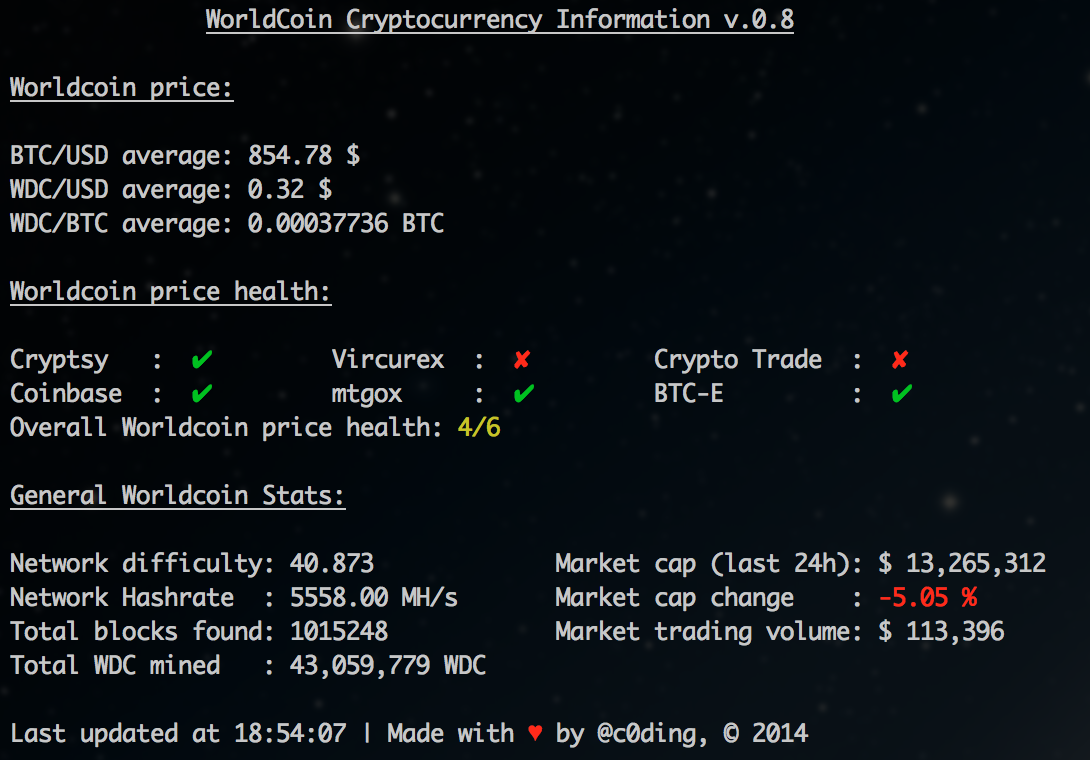
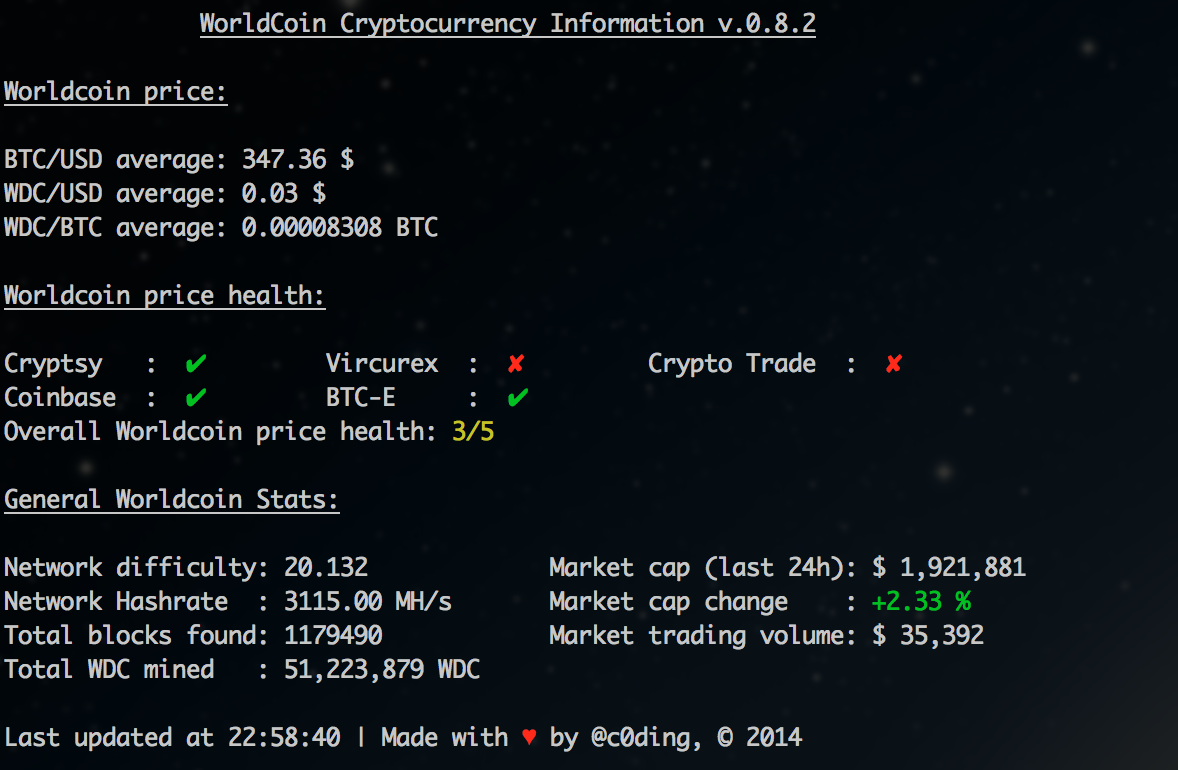
remove MtGox from statistics

diff --git a/wdcinfo.py b/wdcinfo.py
@@ -14,25 +14,27 @@ def get_info():
 	""" Fetches price and network difficulty from wdcticker.com """
 	data = requests.get('http://wdcticker.com/api/ticker')
 	d = json.loads(data.text)
-	values = [d[u'cryptsy_set'],d[u'vircurex_set'],d[u'crypto_trade_set'],d[u'coinbase_btc_set'],d[u'mtgox_btc_set'],d[u'btc_e_btc_set']]
-	keys= [u'cryptsy_set',u'vircurex_set',u'crypto_trade_set',u'coinbase_btc_set',u'mtgox_btc_set',u'btc_e_btc_set']
+	values = [d[u'cryptsy_set'],d[u'vircurex_set'],d[u'crypto_trade_set'],d[u'coinbase_btc_set'],d[u'btc_e_btc_set']]
+	keys= [u'cryptsy_set',u'vircurex_set',u'crypto_trade_set',u'coinbase_btc_set',u'btc_e_btc_set']
 	for key,value in zip(keys,values):
 		if value == True:
 			d[key] = "\033[32m✔\033[39m"
 		else:
 			d[key] = "\033[31m✘\033[39m"
 
-	if d[u'health_rating']>= 6:
-		d[u'health_rating'] = "\033[32m" + str(d[u'health_rating']) + str("/6") + "\033[39m"
+	d[u'health_rating'] = d[u'health_rating'] - 1
+
+	#if d[u'health_rating']>= 6:
+		#d[u'health_rating'] = "\033[32m" + str(d[u'health_rating']) + str("/6") + "\033[39m"
 	
-	elif d[u'health_rating'] >= 5:
-		d[u'health_rating'] = "\033[32m" + str(d[u'health_rating']) + "/6" + "\033[39m"
+	if d[u'health_rating'] >= 5:
+		d[u'health_rating'] = "\033[32m" + str(d[u'health_rating']) + "/5" + "\033[39m"
 	
 	elif 4 >= d[u'health_rating'] >= 3:
-		d[u'health_rating'] = "\033[33m" + str(d[u'health_rating']) + "/6" + "\033[39m"
+		d[u'health_rating'] = "\033[33m" + str(d[u'health_rating']) + "/5" + "\033[39m"
 	
 	elif d[u'health_rating'] <= 2:
-		d[u'health_rating'] = "\033[31m" + str(d[u'health_rating']) + "/6" + "\033[39m"
+		d[u'health_rating'] = "\033[31m" + str(d[u'health_rating']) + "/5" + "\033[39m"
 	
 	d[u'network_diff'] = '%.3f' % d[u'network_diff']
 	
@@ -75,7 +77,7 @@ def output(d, hashrate, market_cap):
 	print "WDC/BTC average: " + d[u'wdc_btc_avg'] + " BTC\n"
 	print "\033[4mWorldcoin price health:\033[0m\n"
 	print "Cryptsy   :  " + d[u'cryptsy_set'] + "         Vircurex  :  " + d[u'vircurex_set'] + "         Crypto Trade  :  " + d[u'crypto_trade_set']
-	print "Coinbase  :  " + d[u'coinbase_btc_set'] + "         mtgox     :  " + d[u'coinbase_btc_set'] + "         BTC-E         :  " + d[u'btc_e_btc_set']
+	print "Coinbase  :  " + d[u'coinbase_btc_set'] +  "         BTC-E     :  " + d[u'btc_e_btc_set']
 	print "Overall Worldcoin price health: " + d[u'health_rating']
 	print "\n\033[4mGeneral Worldcoin Stats:\033[0m\n "
 	print "Network difficulty: " + str(d[u'network_diff']) + "             Market cap (last 24h): " + market_cap[0]
